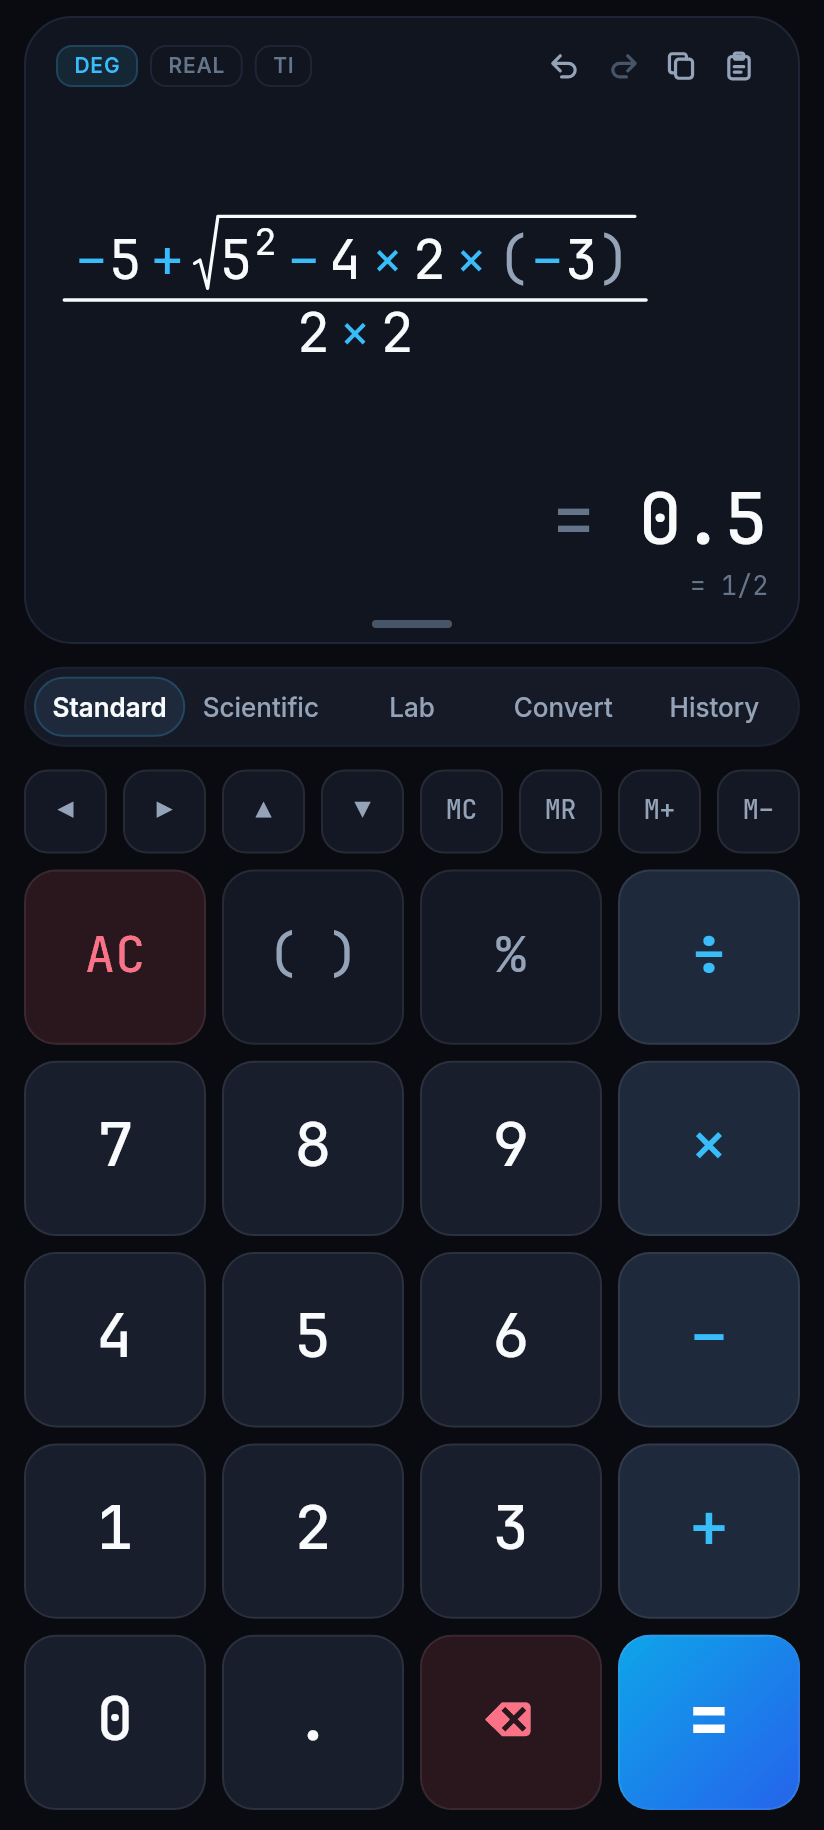
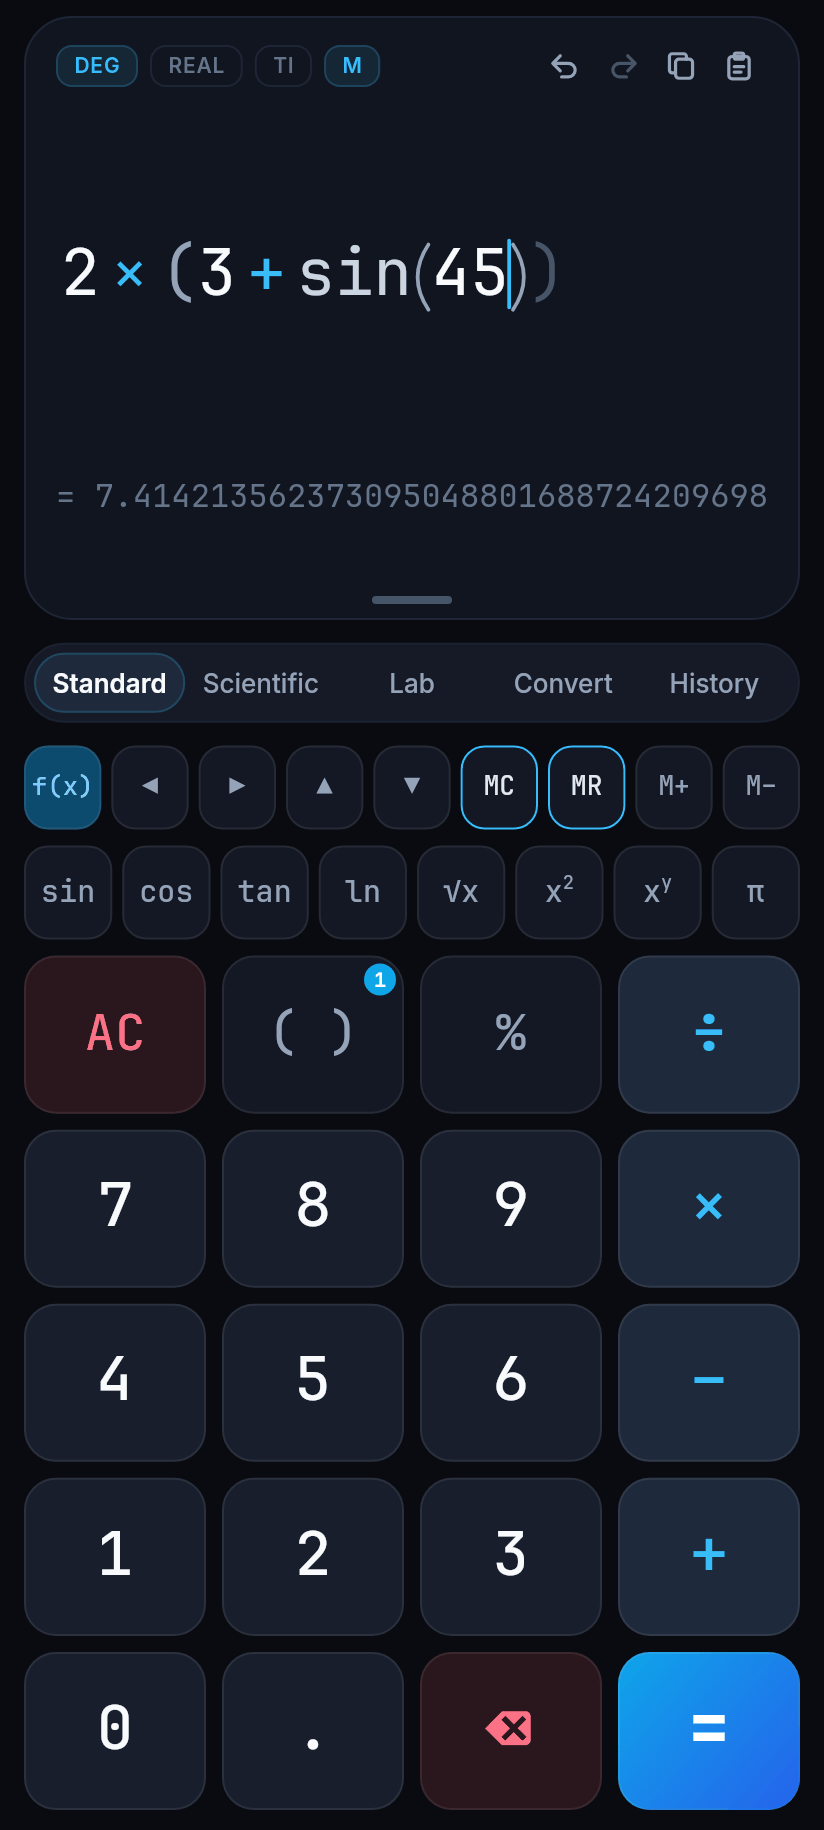
Describe 3.1 in the README; emulator script taps the tab bar where it is
- README: the folding display, the reworked keypads and the new paths
  between the tabs; a section on where the result differs from the UX
  review; refreshed screenshots; test counts.
- emulator_smoke.sh: the tab bar has two positions now (display open or
  folded). The script taps the right one, opens the folded display once,
  and fails when a tap leaves the screen unchanged.

diff --git a/README.md b/README.md
@@ -6,9 +6,9 @@ exact fractions for as long as possible and 50-digit decimals after that, and
 every evaluation runs off the UI thread and can be cancelled.
 
 <p>
-  <img src="docs/screenshots/standard.png" width="19%" alt="Standard tab: a fraction with a square root in the numerator, result 0.5 and 1/2">
+  <img src="docs/screenshots/standard.png" width="19%" alt="Standard tab with the row of quick function keys open; the parenthesis that is still open is drawn as a ghost and counted on its key">
   <img src="docs/screenshots/scientific.png" width="19%" alt="Scientific tab: an integral plus a cube root times a power of e">
-  <img src="docs/screenshots/lab_solver.png" width="19%" alt="Lab tab: quadratic solver with exact roots">
+  <img src="docs/screenshots/lab_solver.png" width="19%" alt="Lab tab: the display folded into a bar, the quadratic solver with exact roots below it">
   <img src="docs/screenshots/convert.png" width="19%" alt="Convert tab: 12.5 metres in other length units">
   <img src="docs/screenshots/history.png" width="19%" alt="History tab: the tape of past calculations">
 </p>
@@ -36,26 +36,35 @@ The pictures are rendered by the screenshot test of this repository
 
 **Display.** One card stays on top of every tab. It shows the expression the
 way it is written on paper, a live preview of the result while typing, and the
-committed result with its second form (`0.5` and `1/2`). A line that gets too
-long first shrinks, then scrolls with faded edges; the caret stays in view.
-Badges switch the angle unit (DEG, RAD, GRAD), real or complex results, and how
-`6÷2(1+2)` is read (TI: 9, CASIO: 1). Undo, redo, copy and paste sit next to
-them; pasted text such as `1,250.50 × 2³ − √16` is cleaned up and turned into
-editable structure. Pulling the handle down opens the recent history.
+committed result with its second form (`0.5` and `1/2`). An empty line shows a
+muted `0`, and a parenthesis that has not been closed yet is drawn as a ghost
+`)` where it will be closed. A line that gets too long first shrinks, then
+scrolls with faded edges; the caret stays in view. Badges switch the angle
+unit (DEG, RAD, GRAD), real or complex results, and how `6÷2(1+2)` is read
+(TI: 9, CASIO: 1); the last two say in a short message what they have just
+switched to. Undo, redo, copy and paste sit next to them; pasted text such as
+`1,250.50 × 2³ − √16` is cleaned up and turned into editable structure.
+Pulling the handle down opens the recent history.
+
+Lab, Convert and History have their own input and read-out. On these tabs the
+card folds into a one-line bar that keeps the badges and shows the last
+answer, and the tab gets the room. A tap on the bar opens the display where
+it is; the chevron folds it again, and so does the next tab change.
 
 **Five tabs.**
 
 | Tab | Contents |
 | --- | --- |
-| Standard | Digits, `+ − × ÷`, `%`, a parenthesis key that opens or closes as needed, cursor keys for moving inside the 2D expression, `MC MR M+ M−`. |
-| Scientific | Trigonometric, hyperbolic and inverse functions, `ln`, `log`, `log₂`, `logₐ`, powers and roots, fraction and absolute-value templates, `π`, `e`, `φ`, `i`, `×10ˣ`, factorial and gamma, `nCr`, `nPr`, `mod`, definite integral and derivative, variables `x`, `y`, `M`, `Ans`. `INV` and `HYP` change the key faces and release after one key. |
-| Lab | **Solver:** quadratic and cubic equations; rational roots stay exact fractions, complex roots are shown. **Matrix:** two matrices up to 4×4; sum, difference, product, determinant, inverse, transpose, rank, trace. **Table:** values of the current expression over a range. **Stats:** one-variable summary (mean, sums, both standard deviations, quartiles) and two-variable linear regression. **Base-N:** HEX, DEC, OCT, BIN at 8, 16, 32 or 64 bits, signed or unsigned, with `AND OR XOR NOT << >>`. |
-| Convert | Twelve categories (length, mass, temperature, area, volume, speed, time, data, pressure, energy, power, angle), all units of a category at once, and 24 physical constants (CODATA 2022) that can be inserted into the expression. |
-| History | Searchable tape of past calculations stored in SQLite: a tap brings an expression back for editing, `Ans` inserts its result. Variable slots (`Ans`, `M`, `A`–`F`, `x`, `y`) can be inserted, filled from the last answer or cleared. |
+| Standard | Digits, `+ − × ÷`, `%`, a parenthesis key that opens or closes as needed and counts the groups that are still open, cursor keys for moving inside the 2D expression, `MC MR M+ M−` (`MC` and `MR` are outlined while the memory holds a value). `f(x)` opens a row with `sin cos tan ln √x x² xʸ π`, so that a single function does not need a tab change. |
+| Scientific | The cursor and memory keys, then six rows of five: trigonometric, hyperbolic and inverse functions, `ln`, `log`, `log₂`, `logₐ`, powers and roots, fraction and absolute-value templates, `π`, `e`, `φ`, `i`, `×10ˣ`, factorial and gamma, `nCr`, `nPr`, `mod`, `gcd`, `lcm`, definite integral and derivative, variables `x`, `y`, `M`, `Ans`, and its own `AC`, `⌫` and `=`. `INV` and `HYP` change the key faces and release after one key; the corner of a key shows what `INV` turns it into. `,` moves on to the next argument of a function. |
+| Lab | **Solver:** quadratic and cubic equations; rational roots stay exact fractions, complex roots are shown. **Matrix:** two matrices up to 4×4; sum, difference, product, determinant, inverse, transpose, rank, trace. **Table:** values of the current expression over a range. **Stats:** one-variable summary (mean, sums, both standard deviations, quartiles) and two-variable linear regression. **Base-N:** HEX, DEC, OCT, BIN at 8, 16, 32 or 64 bits, signed or unsigned, with `AND OR XOR NOT << >>`; a tap on a base makes it the one being typed, and digits it does not have are switched off. Roots, scalar matrix results, statistics and the decimal Base-N value have a `↗` that puts them into the main expression. |
+| Convert | Twelve categories (length, mass, temperature, area, volume, speed, time, data, pressure, energy, power, angle), all units of a category at once (an empty field counts as 0, and `0 °C` is `32 °F`), a `↗` on every line that puts its value into the main expression, and 24 physical constants (CODATA 2022); a tap on a constant inserts it into the expression. |
+| History | Searchable tape of past calculations stored in SQLite: a tap brings an expression back for editing, `Ans` inserts its result, and both return to the keypad; a long press opens the whole expression and result with copy buttons. Variable slots (`Ans`, `M`, `A`–`F`, `x`, `y`) can be inserted, filled from the last answer or cleared. |
 
 In portrait one tab is visible at a time; from 600 dp of width the standard
-keypad and the display stay on screen next to the other tabs. A swipe on the
-display card or the tab bar changes the tab, a swipe on the keys never does.
+keypad and the display stay on screen next to the other tabs (and the display
+never folds). A swipe on the display card or the tab bar changes the tab, a
+swipe on the keys never does.
 
 **Also.** Hardware keyboards work (digits, `+ - * / ^ ( ) ! % .`, `=` or Enter,
 Backspace, Esc, arrows, `x`, `e`, `p` for π). The expression in progress, the
@@ -158,7 +167,7 @@ dart test test/domain/engine_verification_test.dart --plain-name "MathEngine"   
 dart test test/domain/engine_verification_test.dart                              # gate 2: all 24 cases, under 50 ms together
 dart test test/domain                                                            # the whole engine and editor suite; needs no Flutter
 flutter test                                                                     # gate 3: the above plus state, isolates and widgets
-CALC_SCREENSHOTS=1 flutter test test/screenshots                                 # renders 21 PNGs into build/screenshots/
+CALC_SCREENSHOTS=1 flutter test test/screenshots                                 # renders 28 PNGs into build/screenshots/
 ```
 
 | Suite | What it covers |
@@ -168,13 +177,15 @@ CALC_SCREENSHOTS=1 flutter test test/screenshots                                
 | `test/presentation/calculator_notifier_test.dart` | Live preview, what the next key does after `=`, errors, undo, memory, variables, persistence of modes and draft. |
 | `test/presentation/evaluator_isolate_pool_test.dart` | Evaluation on a worker isolate, cancellation by newer input, the 250 ms preview budget, the watchdog that replaces a stuck worker. |
 | `test/presentation/calculator_shell_test.dart`, `display_card_test.dart` | Keys, hardware keyboard, gestures, every tab and Lab mode at four screen sizes without overflow, shrinking and scrolling of long lines, screen-reader labels. |
+| `test/presentation/ux_improvements_test.dart` | The changes of 3.1: folding and reopening of the display, mode messages, placeholder and ghost parentheses, the quick function row, the parenthesis counter, the scientific grid with its corner legends, sending values from Lab, Convert and History to the expression, Base-N on a small phone. |
 | `test/screenshots/screenshots_test.dart` | Skipped unless `CALC_SCREENSHOTS=1`; then renders the screens at phone, small-phone, landscape and tablet sizes. |
 
 `.github/scripts/emulator_smoke.sh <apk> <out-dir>` drives a release APK on a
 running emulator or device through `adb`: typed input, `=`, `Ans`, `5000!`,
-rotation, all tabs, and a forced stop followed by a restart, with a
-screenshot after every step. It fails when the app is no longer running or
-when logcat shows a Flutter error or a crash. It does not read the screen:
+rotation, all tabs, the folded display and its reopening, and a forced stop
+followed by a restart, with a screenshot after every step. It fails when the
+app is no longer running, when logcat shows a Flutter error or a crash, or
+when a tap on a tab leaves the screen as it was. It does not read the screen:
 whether the results are right and the history is back after the restart is
 for a person to see in the screenshots.
 
@@ -316,7 +327,6 @@ what was done.
   `×` and `÷` in CASIO mode. A power binds tighter than any implied product.
 - **Minus sign.** JetBrains Mono draws U+2212 as narrow as a hyphen, so the
   display shows an en dash for it. Stored and copied text is unaffected.
-- **Empty line.** Shows only the caret, no placeholder.
 - **Repeated `=`.** Pressing `=` again on a committed result adds no second
   history line.
 - **Converter.** Starts from the base unit of a category (°C for
@@ -329,13 +339,48 @@ what was done.
 - **Formatting.** `dart format` with a page width of 120
   (`analysis_options.yaml`).
 
+### The UX review (version 3.1)
+
+Version 3.1 applies a written review of the layout,
+`ux_and_layout_improvements_blueprint.md` (not part of this repository
+either): the folding display, the mode messages, the placeholder and the
+ghost parentheses, the quick function row and the parenthesis counter, the
+rearranged scientific grid, and the paths from Lab, Convert and History back
+into the expression. Where the result differs from that document:
+
+- **Functions the engine does not have.** The review puts `Σ`/`Π`, mixed
+  fractions (`a b/c`), `Rand`, the polar `∠`, `ENG` and `CALC` on the
+  scientific grid. They are not part of this version; each needs engine work
+  and tests of its own. Their places hold functions that existed already:
+  the angle-unit key (for `Σ`/`Π`), `x⁻¹` (for `a b/c`), `°` (for `Rand`),
+  `log₂` (for `∠`), `logₐ` (for `ENG`) and `gcd`/`lcm` (for `CALC`). `mod`
+  is the second face of `|x|` and `Γ` that of `x!`.
+- **The folded display opens in place.** The review allows a tap on the bar
+  to jump to the Standard tab or to expand the display; it expands, so the
+  tab in use stays. The bar is 56 dp high.
+- **Mode messages.** Without a Material layer there is no `SnackBar`. The
+  message is a widget of the app that floats over the keypad for 1.5 s and
+  lets touches through. The texts are shorter than in the review, and the
+  badge keeps its name `TI`.
+- **Sending a value.** A `↗` at the end of the line instead of a "Use in
+  Calc" chip, which the narrow lines have no room for. A negative or complex
+  value is inserted in parentheses.
+- **Open parentheses inside a template.** A parenthesis left open in an
+  exponent, a root or a fraction is closed where that slot ends, which is
+  also where its ghost is drawn: `2^(1+1` followed by `×3` outside the
+  exponent is `2^(1+1) × 3`.
+- **`,` on the scientific grid.** Inside a function with several arguments
+  it moves the caret to the next one; elsewhere it types a separator.
+- **Converter.** There was no special case for zero: the dashes came from
+  an empty field, which now counts as 0.
+
 ## What has been verified, and what has not
 
 On CI, with the code as it is in this commit:
 
 - `flutter analyze` reports no issues and `dart format` no changes.
 - All 24 blueprint cases pass and take 10 to 15 ms together (budget 50 ms).
-- `flutter test`: 100 tests pass (62 of them engine and editor tests that
+- `flutter test`: 127 tests pass (68 of them engine and editor tests that
   also run under plain `dart test`); the 4 screenshot tests are skipped
   unless requested and pass when run.
 - The release APKs build, and `apksigner` accepts them.
@@ -357,6 +402,7 @@ Not verified:
   produces today are debug-signed.
 - Screen readers: labels are checked by tests, TalkBack itself was not run.
 
-The earlier WebView-based app (v3.1.x) was removed from the tree in favour of
-this implementation. Its history remains in git, and the `gh-pages` branch
-still serves its web demo.
+The earlier WebView-based app was removed from the tree in favour of this
+implementation. Its releases were numbered 3.1.x as well: the tag `v3.1` is
+one of them and is not version 3.1.0 of this app. Its history remains in git,
+and the `gh-pages` branch still serves its web demo.
